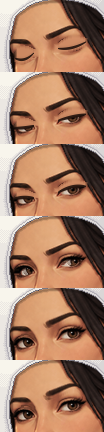
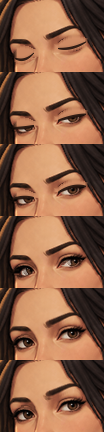
Kaede's wedding: the hood comes off, a comb and a red pin instead
The white silk hood hid her hair and dominated the picture. She now wears her
hair as every day, dressed with two small things: the pin through her knot
lacquered red, and a gold comb set behind her crown. Her white robes and red
inner collar stay.

With the hood gone, the cloth round her neck shows, so it is sorted properly:
the strands that hang over her robe and the side of her neck behind them are
kept, the back of her collar is dyed with the rest of it, and her hair sways
as it does every day.

Claude-Session: https://claude.ai/code/session_01XvgEay1pJez8ktwbJ7pgPF

diff --git a/tools/portrait_wedding.py b/tools/portrait_wedding.py
@@ -12,12 +12,13 @@ own garments re-dyed by their own light and shade, so the painter's folds stay.
   Farah  (a desert court)    crimson silk, its bands worked in bright gold; a sheer ivory
          veil set back on her crown and falling past her shoulders, bordered in gold; a
          circlet of gold coins with a garnet on her brow, gold earrings, a coin necklace
-  Kaede  (an island court)   all in white: a white silk hood over her hair, white robes
-         with their pattern woven white on white, a red inner collar
+  Kaede  (an island court)   all in white: white robes with their pattern woven white on
+         white, a red inner collar; her hair as she wears it, the pin through her knot
+         lacquered red and a small gold comb set behind her crown
 
 Writes assets/portraits/<who>_wedding_<expression>.png for the expressions the wedding
 uses, and assets/portraits/face/<who>_wedding_hair.png, where the shader may swing hair
-on the dressed painting (Edda's loose locks; nothing under a veil or a hood). Then run
+on the dressed painting (Edda's loose locks, Kaede's as every day, nothing under a veil). Then run
 tools/portrait_faces.py, which gives the dressed paintings their blinks and glances.
 
     python3 tools/portrait_wedding.py
@@ -106,6 +107,14 @@ def poly(points, shape, ss=4):
     h, w = shape
     im = Image.new("L", (w * ss, h * ss), 0)
     ImageDraw.Draw(im).polygon([(x * ss, y * ss) for x, y in points], fill=255)
+    return np.array(im.resize((w, h), Image.BOX)).astype(float) / 255.0
+
+
+def stroke(points, width, shape, ss=4):
+    """How much of each pixel a line through `points`, `width` wide, covers (0..1)."""
+    h, w = shape
+    im = Image.new("L", (w * ss, h * ss), 0)
+    ImageDraw.Draw(im).line([(x * ss, y * ss) for x, y in points], fill=255, width=max(1, int(round(width * ss))), joint="curve")
     return np.array(im.resize((w, h), Image.BOX)).astype(float) / 255.0
 
 
@@ -381,55 +390,56 @@ def kaede(src):
     hh, ss, vv = hsv(src)
     lum = luminance(src)
     # White robes, their pattern woven white on white; a red inner collar.
-    throat = poly(curve([(146, 236), (198, 224), (212, 250), (200, 290), (176, 330), (160, 300), (144, 262)]), (h, w))
-    below = (yy >= 238) & (src[..., 3] > 0) & (throat < 0.5)
+    throat = poly(curve([(146, 236), (198, 222), (215, 228), (217, 250), (207, 272), (200, 290), (176, 330),
+                         (160, 300), (144, 262)]), (h, w))
+    below = (yy >= 226) & (src[..., 3] > 0) & (throat < 0.5)
     clasp = np.hypot(xx - 192, yy - 396) < 15
-    hair = ((xx < 140) & (xx > 70) & (yy < 286)) | ((xx > 196) & (xx < 226) & (yy < 292))
-    collar = below & (ss < 0.36) & (vv > 0.62) & (hh > 15) & (hh < 50) & (xx > 110) & (xx < 280) & (yy < 380)
+    # The strands that hang over her robe stay hair: dark, warm and saturated, where they hang.
+    hangs_left = (xx < 140) & (xx > 70) & (yy < 292)
+    hangs_right = (xx > 196) & (xx < 228) & (yy < 300)
+    warm = (hh < 40) | (hh > 352)
+    hair = (hangs_left | hangs_right) & ((warm & (ss > 0.5) & (vv < 0.62)) | (vv < 0.12))
+    hair = hair | (grow(hair, 1) & (hangs_left | hangs_right) & (vv < 0.3) & (ss > 0.35) & warm)
+    # Above her shoulders only the back of the collar and of the robe is cloth: the rest is
+    # her hair (near black, or dark and warm), and stays.
+    hair = hair | ((yy < 238) & (~((xx > 214) & (xx < 262)) | (vv < 0.14) | ((hh < 40) & (ss > 0.5) & (vv < 0.62))))
+    # The side of her neck shows behind that strand: skin (richer than the linen) stays too.
+    hair = hair | ((xx > 196) & (xx < 252) & (yy >= 222) & (yy < 264) & (hh > 12) & (hh < 36) & (ss >= 0.47) & (vv > 0.5))
+    # Her inner collar: cream linen (paler than skin), inside the line of the lapels.
+    zone = poly([(118, 300), (140, 240), (160, 236), (214, 226), (254, 226), (258, 262), (236, 300), (200, 380),
+                 (130, 380)], (h, w)) > 0.5
+    collar = below & zone & ~hair & ~hangs_left & (ss < 0.47) & (vv > 0.42) & (hh > 15) & (hh < 50)
+    collar = collar | (below & hangs_right & ~hair & (yy > 238))   # the strand lies on the collar
+    # Its back, by her neck: paler than any skin.
+    collar = collar | ((src[..., 3] > 0) & (xx > 206) & (xx < 262) & (yy >= 224) & (yy < 262) & ~hair
+                       & (ss < 0.40) & (vv > 0.5) & (hh > 10) & (hh < 55))
     robe = below & ~clasp & ~hair & ~collar
     out = src.copy()
     silk = [(0.0, (96, 98, 122)), (0.3, (176, 176, 194)), (0.6, (226, 226, 234)), (1.0, (252, 251, 247))]
     out[robe, :3] = ramp(silk, 0.42 + 0.58 * np.clip((lum - 8) / 150.0, 0, 1))[robe]
     red = [(0.0, (70, 10, 16)), (0.5, (168, 30, 38)), (1.0, (226, 92, 84))]
     out[collar, :3] = ramp(red, 0.2 + 0.8 * np.clip((lum - 120) / 110.0, 0, 1))[collar]
-    # A white silk hood over her hair: a dome lit from the upper left, its sides falling in
-    # folds onto her shoulders, a rolled edge round her face and a soft shade on her skin.
-    opening = poly(curve([(122, 120), (140, 108), (164, 104), (190, 108), (208, 120), (214, 146), (214, 176),
-                          (208, 204), (198, 224), (208, 246), (220, 290), (140, 290), (146, 238), (134, 214),
-                          (122, 186), (116, 152), (122, 120)], n=10), (h, w))
-    outer = curve([(132, 300), (112, 312), (94, 296), (84, 252), (82, 196), (88, 138), (104, 94), (132, 62), (172, 44),
-                   (212, 42), (252, 56), (282, 90), (300, 136), (306, 192), (304, 246), (298, 288), (282, 310),
-                   (262, 304), (244, 314), (226, 298)], n=14) + [(222, 292), (148, 292)]
-    cover = np.clip(poly(outer, (h, w)) - opening * 1.2, 0, 1)
-    m = cover > 0.5
-    ang = np.arctan2(xx - 192.0, yy - 34.0)
-    ripple = smooth(110, 250, yy) * (0.32 * np.sin(ang * 22.0) + 0.12 * np.sin(ang * 53.0 + 0.7))
-    lit = form_light(xx, yy, (192.0, 160.0), (112.0, 118.0), ripple)
-    ring = blur((grow(opening > 0.5, 5) & m).astype(float), 2)
-    lit = cel(lit * (1 - 0.30 * ring) * (1 - 0.18 * smooth(250, 300, yy)))
-    # Creases where the silk folds, darker in the falling sides than over the crown.
-    falls = smooth(150, 250, yy)
-    bend = ang + 0.0025 * np.clip(yy - 150, 0, None) * np.sign(xx - 192.0)
-    crease = (np.abs(np.sin(bend * 22.0 + 0.4)) < 0.04 + 0.08 * falls) & (falls > 0.05) & m & ~grow(~m, 2)
-    lit = np.where(crease, lit - 0.20 * falls, lit)
-    hood = [(0.0, (78, 76, 96)), (0.3, (142, 138, 154)), (0.55, (196, 192, 198)), (0.8, (230, 226, 222)),
-            (1.0, (248, 245, 236))]
-    # It casts a soft shade on the robe just below its hem.
-    hem_shade = blur((grow(m, 4) & ~m & robe & (yy > 280)).astype(float), 2)[..., None] * 0.3
-    out[..., :3] = out[..., :3] * (1 - hem_shade)
-    lay(out, cover, ramp(hood, lit))
-    lay(out, (grow(m, 1) & ~m & ~(opening > 0.5)).astype(float) * 0.9, (56, 56, 74))
-    # The brim: the silk rolled back round her face, a lit band with a shadowed line inside.
-    brim = m & grow(opening > 0.5, 4) & (yy < 250)
-    lay(out, brim.astype(float) * 0.9, ramp(hood, np.clip(lit + 0.18, 0, 1)))
-    lay(out, (m & grow(opening > 0.5, 1) & (yy < 250)).astype(float) * 0.9, (120, 116, 128))
-    lay(out, (brim & ~grow(opening > 0.5, 3)).astype(float) * 0.6, (150, 146, 156))
-    # The robe's own outline against the night behind her, as the painting draws it.
+    # The robe's own outline against what's behind her, as the painting draws it.
     figure = out[..., 3] > 128
     lay(out, (robe & grow(~figure, 1)).astype(float) * 0.8, (70, 70, 88))
-    under = (opening > 0.5) & grow(m, 3) & (yy < 236)
-    out[..., :3] = out[..., :3] * (1 - blur(under.astype(float), 1)[..., None] * 0.3)
-    return out, None
+    # Her hair as she wears it, dressed for the day with two things only. The pin through
+    # her knot is lacquered red (re-dyed by its own light, its gold band kept)...
+    pin = (xx > 250) & (xx < 300) & (yy > 158) & (yy < 186) & (src[..., 3] > 0) & (hh < 45) & (ss > 0.42) \
+        & (vv > 0.2) & ~((vv > 0.5) & (hh > 30))
+    pin = pin & ((xx > 268) | (vv > 0.24))
+    lacquer = [(0.0, (64, 8, 14)), (0.5, (164, 26, 34)), (1.0, (236, 96, 84))]
+    out[pin, :3] = ramp(lacquer, np.clip((lum - 20) / 95.0, 0, 1))[pin]
+    coin(out, 296.5, 166.5, 2.0)
+    # ...and a small gold comb is set behind her crown, across the sweep of her hair: an
+    # arched spine, its teeth running back into the hair toward her knot.
+    spine = curve([(231, 120), (236, 110), (244, 102), (255, 98)], n=10)
+    for i in range(1, len(spine) - 1, 3):
+        x, y = spine[i]
+        lay(out, stroke([(x + 0.8, y + 0.8), (x + 5.2, y + 5.0)], 1.0, (h, w)) * 0.9, (150, 100, 34))
+    lay(out, stroke(spine, 5.4, (h, w)), GOLD_DARK)
+    lay(out, stroke(spine, 3.8, (h, w)), GOLD_MID)
+    lay(out, stroke([(x - 0.9, y - 0.9) for x, y in spine[2:-2]], 1.2, (h, w)) * 0.95, GOLD_LIGHT)
+    return out, "as every day"
 
 
 DRESS = {"edda": edda, "farid": farah, "kaede": kaede}
@@ -446,9 +456,13 @@ def main():
                 os.path.join(PORTRAITS, "%s_wedding_%s.png" % (who, expression)), optimize=True)
             if free is None:
                 free = hair if hair is not None else np.zeros(dressed.shape[:2])
-        free = np.clip(free / max(free.max(), 1e-6), 0, 1)
-        Image.fromarray(np.round(free * 255).astype("uint8"), "L").save(
-            os.path.join(face_dir, "%s_wedding_hair.png" % who), optimize=True)
+        if isinstance(free, str):                     # her hair is as it is every day
+            import portrait_faces
+            map_ = portrait_faces.hair(who)
+        else:
+            free = np.clip(free / max(free.max(), 1e-6), 0, 1)
+            map_ = Image.fromarray(np.round(free * 255).astype("uint8"), "L")
+        map_.save(os.path.join(face_dir, "%s_wedding_hair.png" % who), optimize=True)
     print("dressed %d paintings" % (len(WHO) * len(EXPRESSIONS)))
 
 

diff --git a/docs/game-feel-audit.md b/docs/game-feel-audit.md
@@ -390,13 +390,16 @@ as cheap, and was replaced):
 - **Farah**, a desert-court bride: crimson silk with its bands worked in gold; a sheer
   ivory veil set back on her crown and falling past her shoulders, bordered in gold; a
   circlet of coins with a garnet on her brow, gold earrings, a necklace of coins.
-- **Kaede**, an island-court bride: all in white, a white silk hood over her hair (rolled
-  back round her face, folds where it falls), white robes with their pattern woven white
-  on white, a red inner collar.
+- **Kaede**, an island-court bride: all in white, white robes with their pattern woven
+  white on white, a red inner collar. Her hair is as she wears it every day, with two
+  small things for the day: the pin through her knot lacquered red, and a gold comb set
+  behind her crown. A white silk hood was tried first; it hid her hair, dominated the
+  picture, and was taken off.
 
 New cloth, hair and metal are drawn in code: rounded forms lit from the upper left, laid
 in a few flat tones checkered where they meet, with dark outlines, as the paintings are.
 Three expressions are dressed (neutral, warm, amused: the ones the day uses); the wedding
 keeps her dressed in any other mood. They blink, glance and move like every painting;
-nothing sways under a veil or a hood. Seen on a screen at all three weddings; checked in
+Edda's unbound locks sway, Kaede's hair sways as every day, and nothing sways under
+Farah's veil. Seen on a screen at all three weddings; checked in
 `tests/wedding_tests.gd`.

diff --git a/assets/story-art-manifest.md b/assets/story-art-manifest.md
@@ -98,8 +98,10 @@ Use case: stylized-concept. Create a wide landscape 3:2 pixel-art background ill
   - Farah (a desert court): crimson silk with its bands worked in gold; a sheer ivory veil
     bordered in gold, set back on her crown; a coin circlet with a garnet on her brow,
     gold earrings, a coin necklace.
-  - Kaede (an island court): all white, a white silk hood over her hair, white robes with
-    their pattern woven white on white, a red inner collar.
+  - Kaede (an island court): all white, white robes with their pattern woven white on
+    white, a red inner collar; her hair as she wears it every day, with the pin through
+    her knot lacquered red and a small gold comb set behind her crown. (A white silk hood
+    was tried first and taken off: it hid her and dominated the picture.)
   Run it again (then `tools/portrait_faces.py`) after a portrait is replaced.
 
 ## Farah / Qasr Hamra

diff --git a/docs/artwork-roadmap.md b/docs/artwork-roadmap.md
@@ -212,7 +212,7 @@ Each of the fifteen paintings also has its other faces (eyes shut and half shut,
 look, a glance, a brow raised) made from it by `tools/portrait_faces.py`
 (`assets/portraits/face/`), and a shader moves each character's head and loose hair; run
 the tool again after repainting one. `tools/portrait_wedding.py` paints all three dressed for their
-wedding over the same paintings (a veil, a hood, unbound hair, a crown, re-dyed gowns).
+wedding over the same paintings (a veil, unbound hair, a crown, a comb, re-dyed gowns).
 
 Use bond introductions and milestone scenes to show paired portraits first. Reserve bespoke
 event paintings for a small number of authored moments after the everyday screens are covered.
